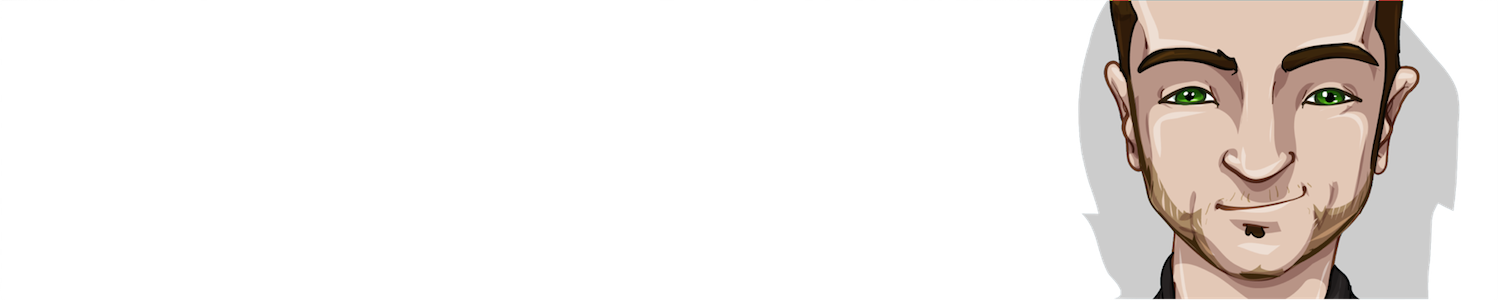
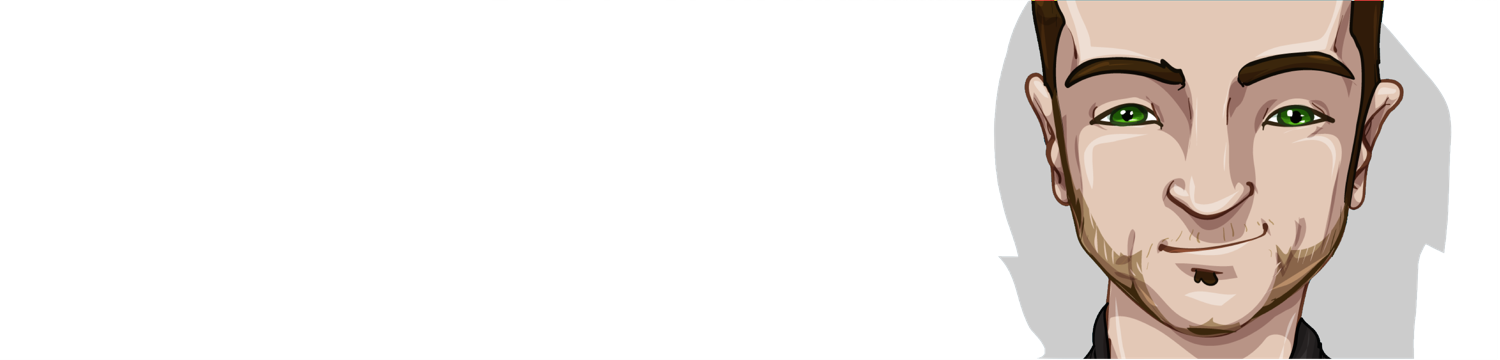
Site updated at 2014-08-29 13:43:43 UTC

Changed region(s): [[0.644, 0.0, 0.9813, 1.0]]

diff --git a/stylesheets/screen.css b/stylesheets/screen.css
@@ -1,1 +1,1 @@
-@charset "UTF-8";html,body,div,span,applet,object,iframe,h1,h2,h3,h4,h5,h6,p,blockquote,pre,a,abbr,acronym,address,big,cite,code,del,dfn,em,img,ins,kbd,q,s,samp,small,strike,strong,sub,sup,tt,var,b,u,i,center,dl,dt,dd,ol,ul,li,fieldset,form,label,legend,table,caption,tbody,tfoot,thead,tr,th,td,article,aside,canvas,details,embed,figure,figcaption,footer,header,hgroup,menu,nav,output,ruby,section,summary,time,mark,audio,video{margin:0;padding:0;border:0;font:inherit;font-size:100%;vertical-align:baseline}html{line-height:1}ol,ul{list-style:none}table{border-collapse:collapse;border-spacing:0}caption,th,td{text-align:left;font-weight:normal;vertical-align:middle}q,blockquote{quotes:none}q:before,q:after,blockquote:before,blockquote:after{content:"";content:none}a img{border:none}article,aside,details,figcaption,figure,footer,header,hgroup,menu,nav,section,summary{display:block}article,aside,details,figcaption,figure,footer,header,hgroup,menu,nav,section,summary{display:block}.highlight table td.code,html .gist .gist-file .gist-syntax .gist-highlight table td.code{width:100%}.highlight .line-numbers,html .gist .gist-file .gist-syntax .highlight .line_numbers{border-right:1px solid #ebe4ce !important}html .gist .gist-file .gist-meta,.highlight .line-numbers,html .gist .gist-file .gist-syntax .highlight .line_numbers{color:#93a1a1}pre{padding:1px 20px;padding:1px 1rem;color:#93a1a1}.highlight,.gist-highlight{overflow-y:hidden;overflow-x:auto}.pre-code,.highlight code,html .gist .gist-file .gist-syntax .highlight pre{overflow:scroll;overflow-y:hidden;display:block;overflow-x:auto;color:#93a1a1 !important}.pre-code span,.highlight code span,html .gist .gist-file .gist-syntax .highlight pre span{color:#93a1a1 !important}.pre-code span,.highlight code span,html .gist .gist-file .gist-syntax .highlight pre span{font-style:normal !important;font-weight:normal !important}.pre-code .c,.highlight code .c,html .gist .gist-file .gist-syntax .highlight pre .c{color:#93a1a1 !important;font-style:italic !important}.pre-code .cm,.highlight code .cm,html .gist .gist-file .gist-syntax .highlight pre .cm{color:#93a1a1 !important;font-style:italic !important}.pre-code .cp,.highlight code .cp,html .gist .gist-file .gist-syntax .highlight pre .cp{color:#93a1a1 !important;font-style:italic !important}.pre-code .c1,.highlight code .c1,html .gist .gist-file .gist-syntax .highlight pre .c1{color:#93a1a1 !important;font-style:italic !important}.pre-code .cs,.highlight code .cs,html .gist .gist-file .gist-syntax .highlight pre .cs{color:#93a1a1 !important;font-weight:bold !important;font-style:italic !important}.pre-code .err,.highlight code .err,html .gist .gist-file .gist-syntax .highlight pre .err{color:#dc322f !important;background:none !important}.pre-code .k,.highlight code .k,html .gist .gist-file .gist-syntax .highlight pre .k{color:#cb4b16 !important}.pre-code .o,.highlight code .o,html .gist .gist-file .gist-syntax .highlight pre .o{color:#93a1a1 !important;font-weight:bold !important}.pre-code .p,.highlight code .p,html .gist .gist-file .gist-syntax .highlight pre .p{color:#93a1a1 !important}.pre-code .ow,.highlight code .ow,html .gist .gist-file .gist-syntax .highlight pre .ow{color:#2aa198 !important;font-weight:bold !important}.pre-code .gd,.highlight code .gd,html .gist .gist-file .gist-syntax .highlight pre .gd{color:#93a1a1 !important;background-color:#f4c5b6 !important;display:inline-block}.pre-code .gd .x,.highlight code .gd .x,html .gist .gist-file .gist-syntax .highlight pre .gd .x{color:#93a1a1 !important;background-color:#f1b1a4 !important;display:inline-block}.pre-code .ge,.highlight code .ge,html .gist .gist-file .gist-syntax .highlight pre .ge{color:#93a1a1 !important;font-style:italic !important}.pre-code .gr,.highlight code .gr,html .gist .gist-file .gist-syntax .highlight pre .gr{color:#a00}.pre-code .gh,.highlight code .gh,html .gist .gist-file .gist-syntax .highlight pre .gh{color:#93a1a1 !important}.pre-code .gi,.highlight code .gi,html .gist .gist-file .gist-syntax .highlight pre .gi{color:#93a1a1 !important;background-color:#e5e3b5 !important;display:inline-block}.pre-code .gi .x,.highlight code .gi .x,html .gist .gist-file .gist-syntax .highlight pre .gi .x{color:#93a1a1 !important;background-color:#cdd088 !important;display:inline-block}.pre-code .go,.highlight code .go,html .gist .gist-file .gist-syntax .highlight pre .go{color:#888}.pre-code .gp,.highlight code .gp,html .gist .gist-file .gist-syntax .highlight pre .gp{color:#555}.pre-code .gs,.highlight code .gs,html .gist .gist-file .gist-syntax .highlight pre .gs{color:#93a1a1 !important;font-weight:bold !important}.pre-code .gu,.highlight code .gu,html .gist .gist-file .gist-syntax .highlight pre .gu{color:#6c71c4 !important}.pre-code .gt,.highlight code .gt,html .gist .gist-file .gist-syntax .highlight pre .gt{color:#a00}.pre-code .kc,.highlight code .kc,html .gist .gist-file .gist-syntax .highlight pre .kc{color:#859900 !important;font-weight:bold !important}.pre-code .kd,.highlight code .kd,html .gist .gist-file .gist-syntax .highlight pre .kd{color:#268bd2 !important}.pre-code .kp,.highlight code .kp,html .gist .gist-file .gist-syntax .highlight pre .kp{color:#cb4b16 !important;font-weight:bold !important}.pre-code .kr,.highlight code .kr,html .gist .gist-file .gist-syntax .highlight pre .kr{color:#d33682 !important;font-weight:bold !important}.pre-code .kt,.highlight code .kt,html .gist .gist-file .gist-syntax .highlight pre .kt{color:#2aa198 !important}.pre-code .n,.highlight code .n,html .gist .gist-file .gist-syntax .highlight pre .n{color:#268bd2 !important}.pre-code .na,.highlight code .na,html .gist .gist-file .gist-syntax .highlight pre .na{color:#268bd2 !important}.pre-code .nb,.highlight code .nb,html .gist .gist-file .gist-syntax .highlight pre .nb{color:#859900 !important}.pre-code .nc,.highlight code .nc,html .gist .gist-file .gist-syntax .highlight pre .nc{color:#d33682 !important}.pre-code .no,.highlight code .no,html .gist .gist-file .gist-syntax .highlight pre .no{color:#b58900 !important}.pre-code .ni,.highlight code .ni,html .gist .gist-file .gist-syntax .highlight pre .ni{color:purple}.pre-code .nl,.highlight code .nl,html .gist .gist-file .gist-syntax .highlight pre .nl{color:#859900 !important}.pre-code .ne,.highlight code .ne,html .gist .gist-file .gist-syntax .highlight pre .ne{color:#268bd2 !important;font-weight:bold !important}.pre-code .nf,.highlight code .nf,html .gist .gist-file .gist-syntax .highlight pre .nf{color:#268bd2 !important;font-weight:bold !important}.pre-code .nn,.highlight code .nn,html .gist .gist-file .gist-syntax .highlight pre .nn{color:#b58900 !important}.pre-code .nt,.highlight code .nt,html .gist .gist-file .gist-syntax .highlight pre .nt{color:#268bd2 !important;font-weight:bold !important}.pre-code .nx,.highlight code .nx,html .gist .gist-file .gist-syntax .highlight pre .nx{color:#b58900 !important}.pre-code .bp,.highlight code .bp,html .gist .gist-file .gist-syntax .highlight pre .bp{color:#999}.pre-code .vc,.highlight code .vc,html .gist .gist-file .gist-syntax .highlight pre .vc{color:teal}.pre-code .vg,.highlight code .vg,html .gist .gist-file .gist-syntax .highlight pre .vg{color:#268bd2 !important}.pre-code .vi,.highlight code .vi,html .gist .gist-file .gist-syntax .highlight pre .vi{color:#268bd2 !important}.pre-code .nv,.highlight code .nv,html .gist .gist-file .gist-syntax .highlight pre .nv{color:#268bd2 !important}.pre-code .w,.highlight code .w,html .gist .gist-file .gist-syntax .highlight pre .w{color:#bbb}.pre-code .mf,.highlight code .mf,html .gist .gist-file .gist-syntax .highlight pre .mf{color:#2aa198 !important}.pre-code .m,.highlight code .m,html .gist .gist-file .gist-syntax .highlight pre .m{color:#2aa198 !important}.pre-code .mh,.highlight code .mh,html .gist .gist-file .gist-syntax .highlight pre .mh{color:#2aa198 !important}.pre-code .mi,.highlight code .mi,html .gist .gist-file .gist-syntax .highlight pre .mi{color:#2aa198 !important}.pre-code .mo,.highlight code .mo,html .gist .gist-file .gist-syntax .highlight pre .mo{color:#099}.pre-code .s,.highlight code .s,html .gist .gist-file .gist-syntax .highlight pre .s{color:#2aa198 !important}.pre-code .sb,.highlight code .sb,html .gist .gist-file .gist-syntax .highlight pre .sb{color:#d14}.pre-code .sc,.highlight code .sc,html .gist .gist-file .gist-syntax .highlight pre .sc{color:#d14}.pre-code .sd,.highlight code .sd,html .gist .gist-file .gist-syntax .highlight pre .sd{color:#2aa198 !important}.pre-code .s2,.highlight code .s2,html .gist .gist-file .gist-syntax .highlight pre .s2{color:#2aa198 !important}.pre-code .se,.highlight code .se,html .gist .gist-file .gist-syntax .highlight pre .se{color:#dc322f !important}.pre-code .sh,.highlight code .sh,html .gist .gist-file .gist-syntax .highlight pre .sh{color:#d14}.pre-code .si,.highlight code .si,html .gist .gist-file .gist-syntax .highlight pre .si{color:#268bd2 !important}.pre-code .sx,.highlight code .sx,html .gist .gist-file .gist-syntax .highlight pre .sx{color:#d14}.pre-code .sr,.highlight code .sr,html .gist .gist-file .gist-syntax .highlight pre .sr{color:#2aa198 !important}.pre-code .s1,.highlight code .s1,html .gist .gist-file .gist-syntax .highlight pre .s1{color:#2aa198 !important}.pre-code .ss,.highlight code .ss,html .gist .gist-file .gist-syntax .highlight pre .ss{color:#990073}.pre-code .il,.highlight code .il,html .gist .gist-file .gist-syntax .highlight pre .il{color:#099}.pre-code div .gd,.pre-code div .gd .x,.pre-code div .gi,.pre-code div .gi .x,.highlight code div .gd,.highlight code div .gd .x,.highlight code div .gi,.highlight code div .gi .x,html .gist .gist-file .gist-syntax .highlight pre div .gd,html .gist .gist-file .gist-syntax .highlight pre div .gd .x,html .gist .gist-file .gist-syntax .highlight pre div .gi,html .gist .gist-file .gist-syntax .highlight pre div .gi .x{display:inline-block;width:100%}@font-face{font-family:'LamplighterScript';src:url("/assets/fontface/2BD096_0_0.eot");src:url("/assets/fontface/2BD096_0_0.eot?#iefix") format("embedded-opentype");src:url("/assets/fontface/2BD096_0_0.woff") format("woff");src:url("/assets/fontface/2BD096_0_0.ttf") format("truetype")}#footnotediv{position:absolute;width:400px;overflow:visible}#footnotediv{background-color:#f2f2f2;font-size:1.0em;color:black;padding:25px 25px 25px 30px;border:1px solid #aaa;border-radius:1em;box-shadow:0 0 8px 0  #333;-webkit-box-shadow:#333 0 0 8px 0;-moz-box-shadow:0 0 8px 0 #333}#footnotediv p{margin:0;padding:5px 0;line-height:1.5em}a.footnotebacklink{border-bottom:none}a.footnotebacklink img{margin:0;padding:0;border:0}#footnotecloselink{color:#888;text-decoration:none;text-align:right;margin:0;padding:10px 10px 5px 0;font-size:1.0em;position:absolute;float:right;top:0;right:0;font-family:Arial, sans-serif;font-weight:bold}sup a{margin:0;padding:0 4px 5px 4px}sup{padding:0}.default-line-height,article ul,article ol,article p{line-height:32.360px;line-height:1.618rem}.font-size-smallest,nav form input.search{font-size:14.637px;font-size:0.732rem}.font-size-small,figure.code,pre{font-size:16.773px;font-size:0.839rem}.font-size-medium,#blog-archives time,#blog-archives footer,article header p.meta{font-size:19.359px;font-size:0.968rem}.font-size-large{font-size:32.36px;font-size:1.618rem}.font-size-largest{font-size:38.319px;font-size:1.916rem}.margin-bottom-large,blockquote,pre,article header,article header p.meta time,article ul,article ol,article p,article footer>p.meta:first-child{margin-bottom:25px}.margin-bottom-larger,body>footer{margin-bottom:52.358px;margin-bottom:2.618rem}.margin-bottom-largest,section,body .blog-index>article,article{margin-bottom:100px}.block-padding,blockquote,pre,article ul,article ol{padding:1px 32.360px;padding:1px 1.618rem}.border-style{border-top:2px solid #aaa}.code-keywords,figure.code figcaption span,figure.code figcaption a,article p>code,article li code{background-color:#e8e8e8;border-radius:4px;padding:0 5.591px;padding:0 0.28rem}.button{-webkit-transition:all 0.3s ease;-webkit-transition-delay:0s;-moz-transition:all 0.3s ease 0s;-o-transition:all 0.3s ease 0s;transition:all 0.3s ease 0s;border-radius:4px;background-color:#65a672;color:#fff}.button:hover{background-color:#538f5f;color:#fff}.code-font,figure.code,pre,article p>code,article li code{font-family:Menlo, Monaco, "Andale Mono", "Lucida Console", "Courier New", monospace}.sans-serif-font-bold,h1,h2,h3,h4,h5,h6,body .pagination,#blog-archives h2,article footer,article footer>p.meta{font-family:"atrament-web", "Helvetica Neue", Arial, sans-serif}.sans-serif-font,body>footer p,#blog-archives time,#blog-archives footer,article header p.meta,article footer>p.meta:first-child{font-family:"proxima-nova", "Helvetica Neue", Arial, sans-serif}.default-font,html,blockquote footer{font-family:Georgia, Times, "Times New Roman", serif}html{border-top:8px solid #65a672;font-size:106%;line-height:1}body{-webkit-text-size-adjust:none;background-image:url("/images/background.jpg");background-repeat:repeat;color:#4b4b4b;text-align:left;width:750px;margin:0 auto}img{width:auto;max-width:100%;border:1px #4b4b4b solid}h1,h2,h3,h4,h5,h6{text-rendering:optimizeLegibility}a{color:#4b4b4b;text-decoration:none;outline:none;-webkit-transition:color 0.3s ease;-webkit-transition-delay:0s;-moz-transition:color 0.3s ease 0s;-o-transition:color 0.3s ease 0s;transition:color 0.3s ease 0s}a:hover{color:#538f5f}a.analog{display:inline-block;margin-left:80px;padding-top:10px;font-family:"LamplighterScript", Georgia, serif;font-size:125px;font-style:normal;font-variant:normal;font-weight:normal;line-height:60%;text-transform:none;text-shadow:white 0px 2px 1px}a.senses{display:inline-block;font-size:77px;font-style:normal;font-variant:normal;font-weight:normal;margin-left:20px;line-height:60%;text-transform:none;text-shadow:white 0px 2px 1px}a img{width:auto;max-width:100%;border:1px #4b4b4b solid}#main{clear:both;padding-left:90px;padding-right:90px}aside,.mobile-nav,.subscription{display:none}blockquote{border-left:2px solid #aaa;font-style:normal;color:#4b4b4b;line-height:140%}blockquote p{margin:0}blockquote footer{text-align:right}blockquote footer a{text-decoration:underline}cite,em,i,dfn{font-style:italic}b,strong{font-weight:bold}abbr{border-bottom:1px dotted #000}small{font-size:16px;font-size:0.8rem}mark{background-color:#ffff66}sup,sub{font-size:14px;font-size:0.7rem;line-height:0;position:relative}sup{top:-0.6rem}sub{bottom:-0.4rem}img#portrait{float:right;border-radius:125px;margin-left:20px;margin-left:1rem;width:240px}figure.code figcaption{margin:4px 0 10px;line-height:23.683px;line-height:1.184rem;text-align:right}figure.code figcaption a{margin-left:-3px;text-decoration:underline}figure.code figcaption span,figure.code figcaption a{display:inline-block}figure.code figcaption span:empty,figure.code figcaption a:empty{display:none}figure.code .highlight{overflow:auto}pre{text-align:left;line-height:18px}pre.line-numbers{display:none}nav{border-top:2px solid #aaa;overflow:auto;padding:14.637px 0;padding:0.732rem 0;margin-bottom:50.316px}nav form{float:right}nav form input.search{border:none;background-color:#f2f2f2;padding:9.046px 14.637px;padding:0.452rem 0.732rem;border-radius:4px;width:180px}nav ul{float:left;margin-top:5px;line-height:25px}nav ul li{text-transform:uppercase;font-size:16px;font-family:Georgia;display:inline;font-weight:normal}nav ul li+li{padding-left:23.683px;padding-left:1.184rem}body>header{background-image:url("/images/header_retina_short.png");background-size:750px 180px;background-repeat:no-repeat;background-position:right;padding:48px 0 39px 0}body>header hgroup{padding-right:300px}body>header hgroup h1{font-size:62.000px;font-size:3.1rem;font-weight:bold;text-transform:uppercase;margin-bottom:7.640px;margin-bottom:0.382rem}body>header hgroup h1 a,body>header hgroup h1 a:hover{color:#4b4b4b}body>header hgroup h2{display:none;padding-top:12px;color:#4B4B4B;font-size:35px;font-style:normal;font-variant:normal;font-weight:normal;height:8px;line-height:8px;outline-color:#6B6967;outline-style:none;outline-width:0px;text-align:left;margin-left:290px;text-shadow:white 0px 1px 0px}body section h1{display:none}body .pagination{font-size:23px;text-align:center;position:relative;padding:23.683px 0;padding:1.184rem 0;margin-bottom:62px;margin-bottom:3.1rem;border-top:2px solid #aaa}body .pagination a.prev{position:absolute;left:0}body .pagination a.next{position:absolute;right:0}body .pagination span{border:1px solid #65a672;color:#65a672}body>footer{clear:both;text-align:center;text-shadow:white 0px 1px 0px}body>footer p{font-size:14px;color:#aaa;line-height:20px;line-height:1rem;text-aling:center}body>footer p a{text-decoration:underline}#blog-archives{margin-bottom:100.316px;margin-bottom:5.016rem;text-shadow:white 0px 1px 0px}#blog-archives h2{color:#aaa;font-size:50.22px;font-size:2.511rem}#blog-archives article{margin-bottom:60px}#blog-archives article h1{font-size:38.319px;font-size:1.916rem;line-height:44px;line-height:2.2rem;padding-bottom:4.722px;padding-bottom:0.236rem;margin:0;margin-bottom:10px}#blog-archives article h1 a{font-size:38px}#blog-archives article h1 a.external-url{font-size:28px}#blog-archives time,#blog-archives footer{color:#aaa;display:inline}#blog-archives time:after{content:"•";padding:0 6px 0 10px;padding:0 0.3rem 0 0.5rem}#search_results article{margin-left:0;margin-top:20px;margin-top:1rem}#search_results article>a{display:none}#search_results article p{margin-top:14.637px;margin-top:0.732rem}#search_results article time:after{content:none}article header h1{font-size:45.959px;font-size:2.298rem;margin-bottom:10px;line-height:52.96px;line-height:2.648rem;text-shadow:white 0px 1px 0px}article header h1 a{color:#4b4b4b}article header h1 a:hover{color:#538f5f}article header h1.external-title{margin-bottom:5px;font-size:30px}article header h1.external-title a{font-size:30px}article header a.external-permalink{font-size:120%;text-decoration:none}article header p.meta{color:#aaa;font-weight:normal;line-height:1.184rem;text-align:left;text-shadow:white 0px 1px 0px}article header p.meta>span:before,article header p.meta>span:after{padding:0 4px;padding:0 0.2rem;content:"•"}article .entry-content{margin-bottom:60px}article h1{font-size:39px;margin-top:62.000px;margin-top:3.1rem;margin-bottom:20px;margin-bottom:1rem;text-shadow:white 0px 1px 0px}article h2{font-size:30.56px;font-size:1.528rem;text-transform:none;margin-top:52.358px;margin-top:2.618rem;margin-bottom:15px;text-shadow:white 0px 1px 0px}article ul,article ol{text-align:left;margin-left:20px;margin-left:1rem}article ul li p,article ol li p{margin-bottom:10px}article ul li:last-child p,article ul ol:last-child p,article ol li:last-child p,article ol ol:last-child p{margin-bottom:0}article ul a,article ol a{text-decoration:underline}article ul{list-style-type:disc}article ol{list-style-type:decimal}article p{text-align:left;color:#333}article p a{text-decoration:underline}article p>code,article li code{font-size:17.56px;font-size:0.878rem}article footer{padding-top:0px;text-shadow:white 0px 1px 0px;font-size:25px}article footer>span>a{text-decoration:underline}article footer>p.meta{overflow:auto;padding-bottom:38.319px;padding-bottom:1.916rem}article footer>p.meta:first-child{font-size:14px;padding-bottom:14.637px;padding-bottom:0.732rem;border-bottom:2px solid #aaa}article footer>p.meta:first-child time:after,article footer>p.meta:first-child span.author:after{content:"•";padding:0 6px 0 10px;padding:0 0.3rem 0 0.5rem}article footer a.basic-alignment{text-decoration:none;width:45%;display:block;line-height:29px}article footer a.basic-alignment.left{float:left;text-align:left}article footer a.basic-alignment.right{float:right;text-align:right}@media screen and (max-width: 1500px){html{font-size:106%}body>header h2{font-size:16px;margin-left:2300px}#main{clear:both;padding-left:90px;padding-right:90px}}@media screen and (max-width: 1300px){html{font-size:106%}body>header h2{font-size:16px;margin-left:250px}#main{clear:both;padding-left:90px;padding-right:90px}}@media screen and (max-width: 1100px){html{font-size:106%}body>header h2{font-size:16px;margin-left:130px}#main{clear:both;padding-left:90px;padding-right:90px}}@media screen and (max-width: 900px){html{font-size:106%}a.analog{font-size:120px;margin:0px;margin-left:80px;padding:0px}a.senses{font-size:75px;margin:0px;margin-left:10px;padding:0px}body{width:740px}body>header{padding:55px 0 45px 0}body>header h2{display:none}#main{clear:both;padding-left:85px;padding-right:85px}nav ul li{padding-left:10px}}@media screen and (max-width: 750px){html{font-size:106%}#main{clear:both;padding-left:30px;padding-right:30px}body{width:90%}body>header{background-image:none}body>header hgroup{padding:20px 0 10px 0;position:relative;text-align:center}body>header hgroup a.analog{text-align:center;margin:0px;margin-right:15px;font-size:160px}body>header hgroup a.senses{text-align:center;margin:0px;font-size:100px}body>header hgroup h2{display:none}nav{border-top:none;margin-bottom:44.401px;margin-bottom:2.618rem}nav ul{border-top:2px solid #808080;padding:16.96px 0;padding:1rem 0}nav ul li{padding-left:0px}nav ul,nav form{width:100%;margin:0 auto}nav form{margin-bottom:20.08px;margin-bottom:1.184rem}nav form input.search{font-size:15.349px;font-size:0.905em}nav input.search,article>footer>a{width:50%}}@media screen and (max-width: 480px){#main{clear:both;padding-left:10px;padding-right:10px}body>header hgroup{padding:10px 50px 0 50px;position:relative;text-align:center}body>header hgroup a.analog{padding:10px 0 10px 10px;font-size:120px;margin:0px;text-align:center}body>header hgroup a.senses{padding:10px 0 10px 0;font-size:80px;margin:0px;text-align:center}body>header hgroup h2{font-size:15.349px;font-size:0.905rem}nav{margin-bottom:32.495px;margin-bottom:1.916rem}nav ul{padding:12.415px 0;padding:0.732rem 0}nav ul li{font-weight:normal}nav ul li+li{padding-left:7.66px;padding-left:0.452rem}nav form{margin-bottom:16.96px;margin-bottom:1rem}nav input.search,article>footer>a{width:70%}#blog-archives h2{font-size:40.161px;font-size:2.368rem}#blog-archives article{margin-left:0}#blog-archives article h1{font-size:27.441px;font-size:1.618rem}.blog-index>article{margin-bottom:85.071px !important;margin-bottom:5.016rem !important}img#portrait{display:block;float:none;width:200px;margin-left:auto;margin-right:auto}article header h1{font-size:35.495px;font-size:1.916rem;line-height:37.244px;line-height:2.196rem}article header h1.external-title{font-size:28px}article header h1.external-title a{font-size:28px}article footer>p.meta{font-size:16.417px;font-size:0.968rem}article .entry-content h1{font-size:26.559px;font-size:1.566rem;line-height:32.495px;line-height:1.916rem}article .entry-content h2{font-size:23.015px;font-size:1.357rem}}
+@charset "UTF-8";html,body,div,span,applet,object,iframe,h1,h2,h3,h4,h5,h6,p,blockquote,pre,a,abbr,acronym,address,big,cite,code,del,dfn,em,img,ins,kbd,q,s,samp,small,strike,strong,sub,sup,tt,var,b,u,i,center,dl,dt,dd,ol,ul,li,fieldset,form,label,legend,table,caption,tbody,tfoot,thead,tr,th,td,article,aside,canvas,details,embed,figure,figcaption,footer,header,hgroup,menu,nav,output,ruby,section,summary,time,mark,audio,video{margin:0;padding:0;border:0;font:inherit;font-size:100%;vertical-align:baseline}html{line-height:1}ol,ul{list-style:none}table{border-collapse:collapse;border-spacing:0}caption,th,td{text-align:left;font-weight:normal;vertical-align:middle}q,blockquote{quotes:none}q:before,q:after,blockquote:before,blockquote:after{content:"";content:none}a img{border:none}article,aside,details,figcaption,figure,footer,header,hgroup,menu,nav,section,summary{display:block}article,aside,details,figcaption,figure,footer,header,hgroup,menu,nav,section,summary{display:block}.highlight table td.code,html .gist .gist-file .gist-syntax .gist-highlight table td.code{width:100%}.highlight .line-numbers,html .gist .gist-file .gist-syntax .highlight .line_numbers{border-right:1px solid #ebe4ce !important}html .gist .gist-file .gist-meta,.highlight .line-numbers,html .gist .gist-file .gist-syntax .highlight .line_numbers{color:#93a1a1}pre{padding:1px 20px;padding:1px 1rem;color:#93a1a1}.highlight,.gist-highlight{overflow-y:hidden;overflow-x:auto}.pre-code,.highlight code,html .gist .gist-file .gist-syntax .highlight pre{overflow:scroll;overflow-y:hidden;display:block;overflow-x:auto;color:#93a1a1 !important}.pre-code span,.highlight code span,html .gist .gist-file .gist-syntax .highlight pre span{color:#93a1a1 !important}.pre-code span,.highlight code span,html .gist .gist-file .gist-syntax .highlight pre span{font-style:normal !important;font-weight:normal !important}.pre-code .c,.highlight code .c,html .gist .gist-file .gist-syntax .highlight pre .c{color:#93a1a1 !important;font-style:italic !important}.pre-code .cm,.highlight code .cm,html .gist .gist-file .gist-syntax .highlight pre .cm{color:#93a1a1 !important;font-style:italic !important}.pre-code .cp,.highlight code .cp,html .gist .gist-file .gist-syntax .highlight pre .cp{color:#93a1a1 !important;font-style:italic !important}.pre-code .c1,.highlight code .c1,html .gist .gist-file .gist-syntax .highlight pre .c1{color:#93a1a1 !important;font-style:italic !important}.pre-code .cs,.highlight code .cs,html .gist .gist-file .gist-syntax .highlight pre .cs{color:#93a1a1 !important;font-weight:bold !important;font-style:italic !important}.pre-code .err,.highlight code .err,html .gist .gist-file .gist-syntax .highlight pre .err{color:#dc322f !important;background:none !important}.pre-code .k,.highlight code .k,html .gist .gist-file .gist-syntax .highlight pre .k{color:#cb4b16 !important}.pre-code .o,.highlight code .o,html .gist .gist-file .gist-syntax .highlight pre .o{color:#93a1a1 !important;font-weight:bold !important}.pre-code .p,.highlight code .p,html .gist .gist-file .gist-syntax .highlight pre .p{color:#93a1a1 !important}.pre-code .ow,.highlight code .ow,html .gist .gist-file .gist-syntax .highlight pre .ow{color:#2aa198 !important;font-weight:bold !important}.pre-code .gd,.highlight code .gd,html .gist .gist-file .gist-syntax .highlight pre .gd{color:#93a1a1 !important;background-color:#f4c5b6 !important;display:inline-block}.pre-code .gd .x,.highlight code .gd .x,html .gist .gist-file .gist-syntax .highlight pre .gd .x{color:#93a1a1 !important;background-color:#f1b1a4 !important;display:inline-block}.pre-code .ge,.highlight code .ge,html .gist .gist-file .gist-syntax .highlight pre .ge{color:#93a1a1 !important;font-style:italic !important}.pre-code .gr,.highlight code .gr,html .gist .gist-file .gist-syntax .highlight pre .gr{color:#a00}.pre-code .gh,.highlight code .gh,html .gist .gist-file .gist-syntax .highlight pre .gh{color:#93a1a1 !important}.pre-code .gi,.highlight code .gi,html .gist .gist-file .gist-syntax .highlight pre .gi{color:#93a1a1 !important;background-color:#e5e3b5 !important;display:inline-block}.pre-code .gi .x,.highlight code .gi .x,html .gist .gist-file .gist-syntax .highlight pre .gi .x{color:#93a1a1 !important;background-color:#cdd088 !important;display:inline-block}.pre-code .go,.highlight code .go,html .gist .gist-file .gist-syntax .highlight pre .go{color:#888}.pre-code .gp,.highlight code .gp,html .gist .gist-file .gist-syntax .highlight pre .gp{color:#555}.pre-code .gs,.highlight code .gs,html .gist .gist-file .gist-syntax .highlight pre .gs{color:#93a1a1 !important;font-weight:bold !important}.pre-code .gu,.highlight code .gu,html .gist .gist-file .gist-syntax .highlight pre .gu{color:#6c71c4 !important}.pre-code .gt,.highlight code .gt,html .gist .gist-file .gist-syntax .highlight pre .gt{color:#a00}.pre-code .kc,.highlight code .kc,html .gist .gist-file .gist-syntax .highlight pre .kc{color:#859900 !important;font-weight:bold !important}.pre-code .kd,.highlight code .kd,html .gist .gist-file .gist-syntax .highlight pre .kd{color:#268bd2 !important}.pre-code .kp,.highlight code .kp,html .gist .gist-file .gist-syntax .highlight pre .kp{color:#cb4b16 !important;font-weight:bold !important}.pre-code .kr,.highlight code .kr,html .gist .gist-file .gist-syntax .highlight pre .kr{color:#d33682 !important;font-weight:bold !important}.pre-code .kt,.highlight code .kt,html .gist .gist-file .gist-syntax .highlight pre .kt{color:#2aa198 !important}.pre-code .n,.highlight code .n,html .gist .gist-file .gist-syntax .highlight pre .n{color:#268bd2 !important}.pre-code .na,.highlight code .na,html .gist .gist-file .gist-syntax .highlight pre .na{color:#268bd2 !important}.pre-code .nb,.highlight code .nb,html .gist .gist-file .gist-syntax .highlight pre .nb{color:#859900 !important}.pre-code .nc,.highlight code .nc,html .gist .gist-file .gist-syntax .highlight pre .nc{color:#d33682 !important}.pre-code .no,.highlight code .no,html .gist .gist-file .gist-syntax .highlight pre .no{color:#b58900 !important}.pre-code .ni,.highlight code .ni,html .gist .gist-file .gist-syntax .highlight pre .ni{color:purple}.pre-code .nl,.highlight code .nl,html .gist .gist-file .gist-syntax .highlight pre .nl{color:#859900 !important}.pre-code .ne,.highlight code .ne,html .gist .gist-file .gist-syntax .highlight pre .ne{color:#268bd2 !important;font-weight:bold !important}.pre-code .nf,.highlight code .nf,html .gist .gist-file .gist-syntax .highlight pre .nf{color:#268bd2 !important;font-weight:bold !important}.pre-code .nn,.highlight code .nn,html .gist .gist-file .gist-syntax .highlight pre .nn{color:#b58900 !important}.pre-code .nt,.highlight code .nt,html .gist .gist-file .gist-syntax .highlight pre .nt{color:#268bd2 !important;font-weight:bold !important}.pre-code .nx,.highlight code .nx,html .gist .gist-file .gist-syntax .highlight pre .nx{color:#b58900 !important}.pre-code .bp,.highlight code .bp,html .gist .gist-file .gist-syntax .highlight pre .bp{color:#999}.pre-code .vc,.highlight code .vc,html .gist .gist-file .gist-syntax .highlight pre .vc{color:teal}.pre-code .vg,.highlight code .vg,html .gist .gist-file .gist-syntax .highlight pre .vg{color:#268bd2 !important}.pre-code .vi,.highlight code .vi,html .gist .gist-file .gist-syntax .highlight pre .vi{color:#268bd2 !important}.pre-code .nv,.highlight code .nv,html .gist .gist-file .gist-syntax .highlight pre .nv{color:#268bd2 !important}.pre-code .w,.highlight code .w,html .gist .gist-file .gist-syntax .highlight pre .w{color:#bbb}.pre-code .mf,.highlight code .mf,html .gist .gist-file .gist-syntax .highlight pre .mf{color:#2aa198 !important}.pre-code .m,.highlight code .m,html .gist .gist-file .gist-syntax .highlight pre .m{color:#2aa198 !important}.pre-code .mh,.highlight code .mh,html .gist .gist-file .gist-syntax .highlight pre .mh{color:#2aa198 !important}.pre-code .mi,.highlight code .mi,html .gist .gist-file .gist-syntax .highlight pre .mi{color:#2aa198 !important}.pre-code .mo,.highlight code .mo,html .gist .gist-file .gist-syntax .highlight pre .mo{color:#099}.pre-code .s,.highlight code .s,html .gist .gist-file .gist-syntax .highlight pre .s{color:#2aa198 !important}.pre-code .sb,.highlight code .sb,html .gist .gist-file .gist-syntax .highlight pre .sb{color:#d14}.pre-code .sc,.highlight code .sc,html .gist .gist-file .gist-syntax .highlight pre .sc{color:#d14}.pre-code .sd,.highlight code .sd,html .gist .gist-file .gist-syntax .highlight pre .sd{color:#2aa198 !important}.pre-code .s2,.highlight code .s2,html .gist .gist-file .gist-syntax .highlight pre .s2{color:#2aa198 !important}.pre-code .se,.highlight code .se,html .gist .gist-file .gist-syntax .highlight pre .se{color:#dc322f !important}.pre-code .sh,.highlight code .sh,html .gist .gist-file .gist-syntax .highlight pre .sh{color:#d14}.pre-code .si,.highlight code .si,html .gist .gist-file .gist-syntax .highlight pre .si{color:#268bd2 !important}.pre-code .sx,.highlight code .sx,html .gist .gist-file .gist-syntax .highlight pre .sx{color:#d14}.pre-code .sr,.highlight code .sr,html .gist .gist-file .gist-syntax .highlight pre .sr{color:#2aa198 !important}.pre-code .s1,.highlight code .s1,html .gist .gist-file .gist-syntax .highlight pre .s1{color:#2aa198 !important}.pre-code .ss,.highlight code .ss,html .gist .gist-file .gist-syntax .highlight pre .ss{color:#990073}.pre-code .il,.highlight code .il,html .gist .gist-file .gist-syntax .highlight pre .il{color:#099}.pre-code div .gd,.pre-code div .gd .x,.pre-code div .gi,.pre-code div .gi .x,.highlight code div .gd,.highlight code div .gd .x,.highlight code div .gi,.highlight code div .gi .x,html .gist .gist-file .gist-syntax .highlight pre div .gd,html .gist .gist-file .gist-syntax .highlight pre div .gd .x,html .gist .gist-file .gist-syntax .highlight pre div .gi,html .gist .gist-file .gist-syntax .highlight pre div .gi .x{display:inline-block;width:100%}@font-face{font-family:'LamplighterScript';src:url("/assets/fontface/2BD096_0_0.eot");src:url("/assets/fontface/2BD096_0_0.eot?#iefix") format("embedded-opentype");src:url("/assets/fontface/2BD096_0_0.woff") format("woff");src:url("/assets/fontface/2BD096_0_0.ttf") format("truetype")}#footnotediv{position:absolute;width:400px;overflow:visible}#footnotediv{background-color:#f2f2f2;font-size:1.0em;color:black;padding:25px 25px 25px 30px;border:1px solid #aaa;border-radius:1em;box-shadow:0 0 8px 0  #333;-webkit-box-shadow:#333 0 0 8px 0;-moz-box-shadow:0 0 8px 0 #333}#footnotediv p{margin:0;padding:5px 0;line-height:1.5em}a.footnotebacklink{border-bottom:none}a.footnotebacklink img{margin:0;padding:0;border:0}#footnotecloselink{color:#888;text-decoration:none;text-align:right;margin:0;padding:10px 10px 5px 0;font-size:1.0em;position:absolute;float:right;top:0;right:0;font-family:Arial, sans-serif;font-weight:bold}sup a{margin:0;padding:0 4px 5px 4px}sup{padding:0}.default-line-height,article ul,article ol,article p{line-height:32.360px;line-height:1.618rem}.font-size-smallest,nav form input.search{font-size:14.637px;font-size:0.732rem}.font-size-small,figure.code,pre{font-size:16.773px;font-size:0.839rem}.font-size-medium,#blog-archives time,#blog-archives footer,article header p.meta{font-size:19.359px;font-size:0.968rem}.font-size-large{font-size:32.36px;font-size:1.618rem}.font-size-largest{font-size:38.319px;font-size:1.916rem}.margin-bottom-large,blockquote,pre,article header,article header p.meta time,article ul,article ol,article p,article footer>p.meta:first-child{margin-bottom:25px}.margin-bottom-larger,body>footer{margin-bottom:52.358px;margin-bottom:2.618rem}.margin-bottom-largest,section,body .blog-index>article,article{margin-bottom:100px}.block-padding,blockquote,pre,article ul,article ol{padding:1px 32.360px;padding:1px 1.618rem}.border-style{border-top:2px solid #aaa}.code-keywords,figure.code figcaption span,figure.code figcaption a,article p>code,article li code{background-color:#e8e8e8;border-radius:4px;padding:0 5.591px;padding:0 0.28rem}.button{-webkit-transition:all 0.3s ease;-webkit-transition-delay:0s;-moz-transition:all 0.3s ease 0s;-o-transition:all 0.3s ease 0s;transition:all 0.3s ease 0s;border-radius:4px;background-color:#65a672;color:#fff}.button:hover{background-color:#538f5f;color:#fff}.code-font,figure.code,pre,article p>code,article li code{font-family:Menlo, Monaco, "Andale Mono", "Lucida Console", "Courier New", monospace}.sans-serif-font-bold,h1,h2,h3,h4,h5,h6,body .pagination,#blog-archives h2,article footer,article footer>p.meta{font-family:"atrament-web", "Helvetica Neue", Arial, sans-serif}.sans-serif-font,body>footer p,#blog-archives time,#blog-archives footer,article header p.meta,article footer>p.meta:first-child{font-family:"proxima-nova", "Helvetica Neue", Arial, sans-serif}.default-font,html,blockquote footer{font-family:Georgia, Times, "Times New Roman", serif}html{border-top:8px solid #65a672;font-size:106%;line-height:1}body{-webkit-text-size-adjust:none;background-image:url("/images/background.jpg");background-repeat:repeat;color:#4b4b4b;text-align:left;width:750px;margin:0 auto}img{width:auto;max-width:100%;border:1px #4b4b4b solid}h1,h2,h3,h4,h5,h6{text-rendering:optimizeLegibility}a{color:#4b4b4b;text-decoration:none;outline:none;-webkit-transition:color 0.3s ease;-webkit-transition-delay:0s;-moz-transition:color 0.3s ease 0s;-o-transition:color 0.3s ease 0s;transition:color 0.3s ease 0s}a:hover{color:#538f5f}a.analog{display:inline-block;margin-left:80px;padding-top:10px;font-family:"LamplighterScript", Georgia, serif;font-size:125px;font-style:normal;font-variant:normal;font-weight:normal;line-height:60%;text-transform:none;text-shadow:white 0px 2px 1px}a.senses{display:inline-block;font-size:77px;font-style:normal;font-variant:normal;font-weight:normal;margin-left:20px;line-height:60%;text-transform:none;text-shadow:white 0px 2px 1px}a img{width:auto;max-width:100%;border:1px #4b4b4b solid}#main{clear:both;width:570px;margin:auto}aside,.mobile-nav,.subscription{display:none}blockquote{border-left:2px solid #aaa;font-style:normal;color:#4b4b4b;line-height:140%}blockquote p{margin:0}blockquote footer{text-align:right}blockquote footer a{text-decoration:underline}cite,em,i,dfn{font-style:italic}b,strong{font-weight:bold}abbr{border-bottom:1px dotted #000}small{font-size:16px;font-size:0.8rem}mark{background-color:#ffff66}sup,sub{font-size:14px;font-size:0.7rem;line-height:0;position:relative}sup{top:-0.6rem}sub{bottom:-0.4rem}img#portrait{float:right;border-radius:125px;margin-left:20px;margin-left:1rem;width:240px}figure.code figcaption{margin:4px 0 10px;line-height:23.683px;line-height:1.184rem;text-align:right}figure.code figcaption a{margin-left:-3px;text-decoration:underline}figure.code figcaption span,figure.code figcaption a{display:inline-block}figure.code figcaption span:empty,figure.code figcaption a:empty{display:none}figure.code .highlight{overflow:auto}pre{text-align:left;line-height:18px}pre.line-numbers{display:none}nav{border-top:2px solid #aaa;overflow:auto;padding:14.637px 0;padding:0.732rem 0;margin-bottom:50.316px}nav form{float:right}nav form input.search{border:none;background-color:#f2f2f2;padding:9.046px 14.637px;padding:0.452rem 0.732rem;border-radius:4px;width:180px}nav ul{float:left;margin-top:5px;line-height:25px}nav ul li{text-transform:uppercase;font-size:16px;font-family:Georgia;display:inline;font-weight:normal}nav ul li+li{padding-left:23.683px;padding-left:1.184rem}body>header{background-image:url("/images/header_retina.png");background-size:750px 180px;background-repeat:no-repeat;background-position:right;padding:48px 0 39px 0}body>header hgroup{padding-right:300px}body>header hgroup h1{font-size:62.000px;font-size:3.1rem;font-weight:bold;text-transform:uppercase;margin-bottom:7.640px;margin-bottom:0.382rem}body>header hgroup h1 a,body>header hgroup h1 a:hover{color:#4b4b4b}body>header hgroup h2{display:none;padding-top:12px;color:#4B4B4B;font-size:35px;font-style:normal;font-variant:normal;font-weight:normal;height:8px;line-height:8px;outline-color:#6B6967;outline-style:none;outline-width:0px;text-align:left;margin-left:290px;text-shadow:white 0px 1px 0px}body section h1{display:none}body .pagination{font-size:23px;text-align:center;position:relative;padding:23.683px 0;padding:1.184rem 0;margin-bottom:62px;margin-bottom:3.1rem;border-top:2px solid #aaa}body .pagination a.prev{position:absolute;left:0}body .pagination a.next{position:absolute;right:0}body .pagination span{border:1px solid #65a672;color:#65a672}body>footer{clear:both;text-align:center;text-shadow:white 0px 1px 0px}body>footer p{font-size:14px;color:#aaa;line-height:20px;line-height:1rem;text-aling:center}body>footer p a{text-decoration:underline}#blog-archives{margin-bottom:100.316px;margin-bottom:5.016rem;text-shadow:white 0px 1px 0px}#blog-archives h2{color:#aaa;font-size:50.22px;font-size:2.511rem}#blog-archives article{margin-bottom:60px}#blog-archives article h1{font-size:38.319px;font-size:1.916rem;line-height:44px;line-height:2.2rem;padding-bottom:4.722px;padding-bottom:0.236rem;margin:0;margin-bottom:10px}#blog-archives article h1 a{font-size:38px}#blog-archives article h1 a.external-url{font-size:28px}#blog-archives time,#blog-archives footer{color:#aaa;display:inline}#blog-archives time:after{content:"•";padding:0 6px 0 10px;padding:0 0.3rem 0 0.5rem}#search_results article{margin-left:0;margin-top:20px;margin-top:1rem}#search_results article>a{display:none}#search_results article p{margin-top:14.637px;margin-top:0.732rem}#search_results article time:after{content:none}article header h1{font-size:45.959px;font-size:2.298rem;margin-bottom:10px;line-height:52.96px;line-height:2.648rem;text-shadow:white 0px 1px 0px}article header h1 a{color:#4b4b4b}article header h1 a:hover{color:#538f5f}article header h1.external-title{margin-bottom:5px;font-size:30px}article header h1.external-title a{font-size:30px}article header a.external-permalink{font-size:120%;text-decoration:none}article header p.meta{color:#aaa;font-weight:normal;line-height:1.184rem;text-align:left;text-shadow:white 0px 1px 0px}article header p.meta>span:before,article header p.meta>span:after{padding:0 4px;padding:0 0.2rem;content:"•"}article .entry-content{margin-bottom:60px}article h1{font-size:39px;margin-top:62.000px;margin-top:3.1rem;margin-bottom:20px;margin-bottom:1rem;text-shadow:white 0px 1px 0px}article h2{font-size:30.56px;font-size:1.528rem;text-transform:none;margin-top:52.358px;margin-top:2.618rem;margin-bottom:15px;text-shadow:white 0px 1px 0px}article ul,article ol{text-align:left;margin-left:20px;margin-left:1rem}article ul li p,article ol li p{margin-bottom:10px}article ul li:last-child p,article ul ol:last-child p,article ol li:last-child p,article ol ol:last-child p{margin-bottom:0}article ul a,article ol a{text-decoration:underline}article ul{list-style-type:disc}article ol{list-style-type:decimal}article p{text-align:left;color:#000}article p a{text-decoration:underline}article p>code,article li code{font-size:17.56px;font-size:0.878rem}article footer{padding-top:0px;text-shadow:white 0px 1px 0px;font-size:25px}article footer>span>a{text-decoration:underline}article footer>p.meta{overflow:auto;padding-bottom:38.319px;padding-bottom:1.916rem}article footer>p.meta:first-child{font-size:14px;padding-bottom:14.637px;padding-bottom:0.732rem;border-bottom:2px solid #aaa}article footer>p.meta:first-child time:after,article footer>p.meta:first-child span.author:after{content:"•";padding:0 6px 0 10px;padding:0 0.3rem 0 0.5rem}article footer a.basic-alignment{text-decoration:none;width:45%;display:block;line-height:29px}article footer a.basic-alignment.left{float:left;text-align:left}article footer a.basic-alignment.right{float:right;text-align:right}@media screen and (max-width: 1500px){html{font-size:106%}body>header h2{font-size:16px;margin-left:2300px}#main{clear:both;padding-left:90px;padding-right:90px}}@media screen and (max-width: 1300px){html{font-size:106%}body>header h2{font-size:16px;margin-left:250px}#main{clear:both;padding-left:90px;padding-right:90px}}@media screen and (max-width: 1100px){html{font-size:106%}body>header h2{font-size:16px;margin-left:130px}#main{clear:both;padding-left:90px;padding-right:90px}}@media screen and (max-width: 900px){html{font-size:106%}#main{clear:both;width:570px;margin:auto}a.analog{font-size:120px;margin:0px;margin-left:80px;padding:0px}a.senses{font-size:75px;margin:0px;margin-left:10px;padding:0px}body{width:740px}body>header{padding:55px 0 45px 0}body>header h2{display:none}nav ul li{padding-left:10px}}@media screen and (max-width: 750px){html{font-size:106%}#main{clear:both;width:auto;padding-left:30px;padding-right:30px}body{width:90%}body>header{background-image:none}body>header hgroup{padding:20px 0 10px 0;position:relative;text-align:center}body>header hgroup a.analog{text-align:center;margin:0px;margin-right:15px;font-size:160px}body>header hgroup a.senses{text-align:center;margin:0px;font-size:100px}body>header hgroup h2{display:none}nav{border-top:none;margin-bottom:44.401px;margin-bottom:2.618rem}nav ul{border-top:2px solid #808080;padding:16.96px 0;padding:1rem 0}nav ul li{padding-left:0px}nav ul,nav form{width:100%;margin:0 auto}nav form{margin-bottom:20.08px;margin-bottom:1.184rem}nav form input.search{font-size:15.349px;font-size:0.905em}nav input.search,article>footer>a{width:50%}}@media screen and (max-width: 480px){#main{clear:both;width:auto;padding-left:10px;padding-right:10px}body>header hgroup{padding:10px 50px 0 50px;position:relative;text-align:center}body>header hgroup a.analog{padding:10px 0 10px 10px;font-size:120px;margin:0px;text-align:center}body>header hgroup a.senses{padding:10px 0 10px 0;font-size:80px;margin:0px;text-align:center}body>header hgroup h2{font-size:15.349px;font-size:0.905rem}nav{margin-bottom:32.495px;margin-bottom:1.916rem}nav ul{padding:12.415px 0;padding:0.732rem 0}nav ul li{font-weight:normal}nav ul li+li{padding-left:7.66px;padding-left:0.452rem}nav form{margin-bottom:16.96px;margin-bottom:1rem}nav input.search,article>footer>a{width:70%}#blog-archives h2{font-size:40.161px;font-size:2.368rem}#blog-archives article{margin-left:0}#blog-archives article h1{font-size:27.441px;font-size:1.618rem}.blog-index>article{margin-bottom:85.071px !important;margin-bottom:5.016rem !important}img#portrait{display:block;float:none;width:200px;margin-left:auto;margin-right:auto}article header h1{font-size:35.495px;font-size:1.916rem;line-height:37.244px;line-height:2.196rem}article header h1.external-title{font-size:28px}article header h1.external-title a{font-size:28px}article footer>p.meta{font-size:16.417px;font-size:0.968rem}article .entry-content h1{font-size:26.559px;font-size:1.566rem;line-height:32.495px;line-height:1.916rem}article .entry-content h2{font-size:23.015px;font-size:1.357rem}}

diff --git a/feed/index.html b/feed/index.html
@@ -4,7 +4,7 @@
   <title><![CDATA[Analog Senses]]></title>
   <link href="http://analogsenses.github.io/atom.xml" rel="self"/>
   <link href="http://analogsenses.github.io/"/>
-  <updated>2014-08-29T14:06:23+02:00</updated>
+  <updated>2014-08-29T15:43:04+02:00</updated>
   <id>http://analogsenses.github.io/</id>
   <author>
     <name><![CDATA[Álvaro Serrano]]></name>
